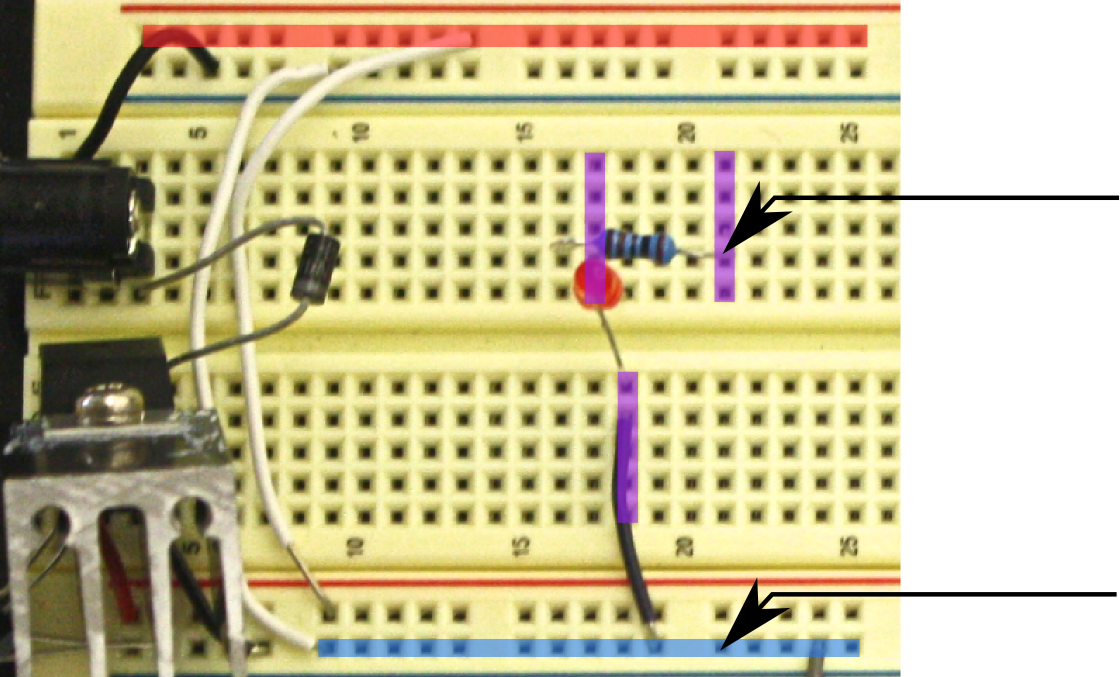
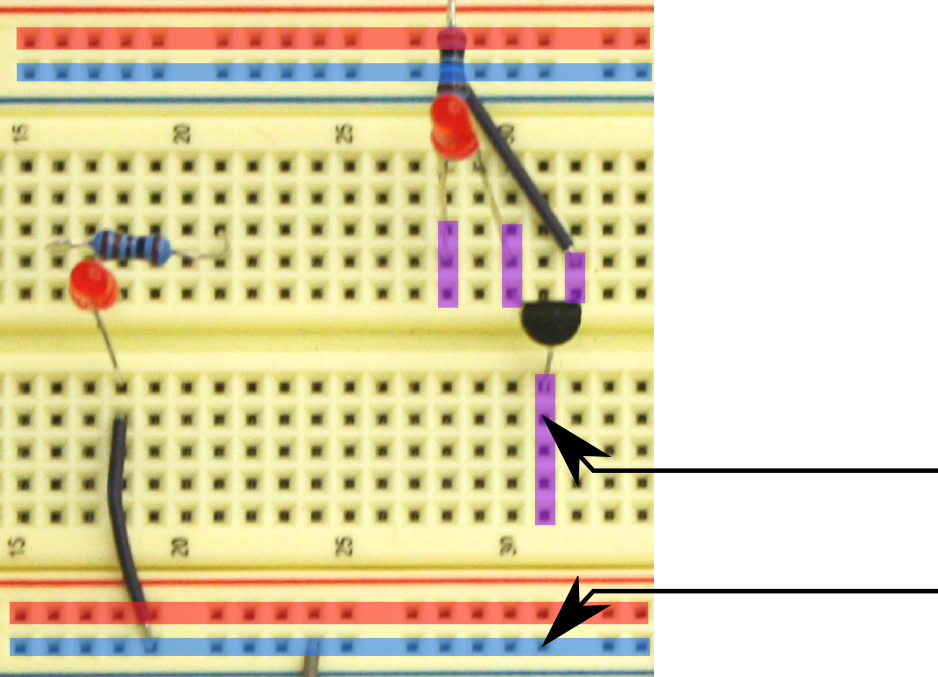
more session a img fix

diff --git a/docs/two-leds.md b/docs/two-leds.md
@@ -10,7 +10,7 @@ Now, we will control two LEDs at the same time.
 
 Disconnect the power supply to the breadboard, and make the connections to pins 12 and 11 as shown.
 
-<img src="{{ site.baseurl }}/img/two-leds.png" style="width: 650px"/>
+<img src="{{ site.baseurl }}/img/a-two-leds.png" style="width: 650px"/>
 
 Now upload the following program, and power the breadboard back up.
 
